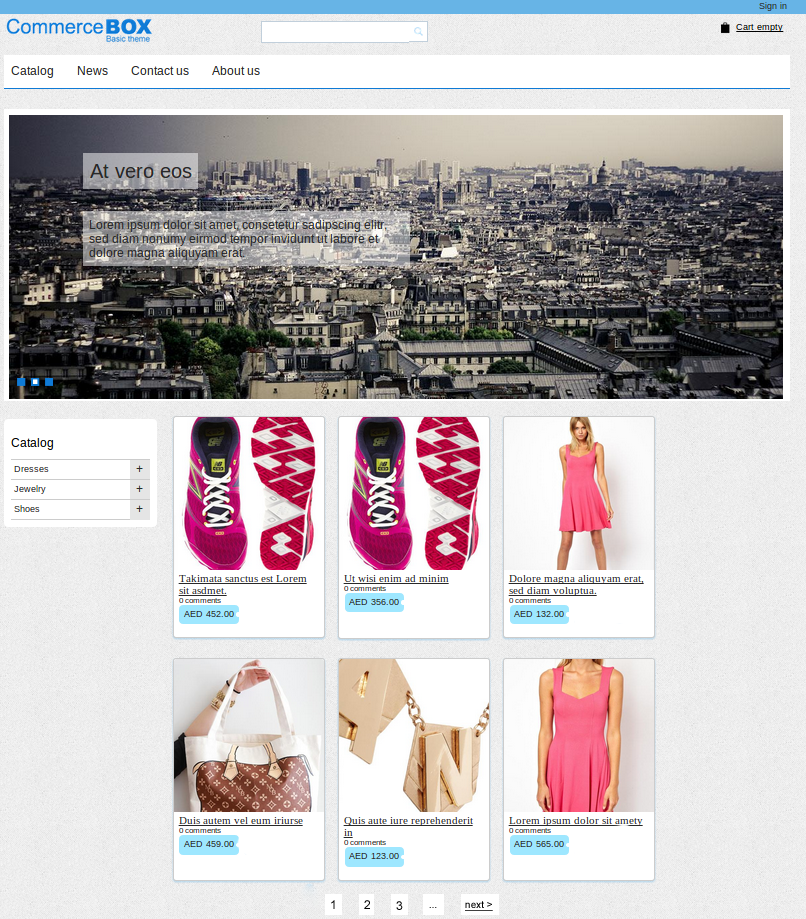
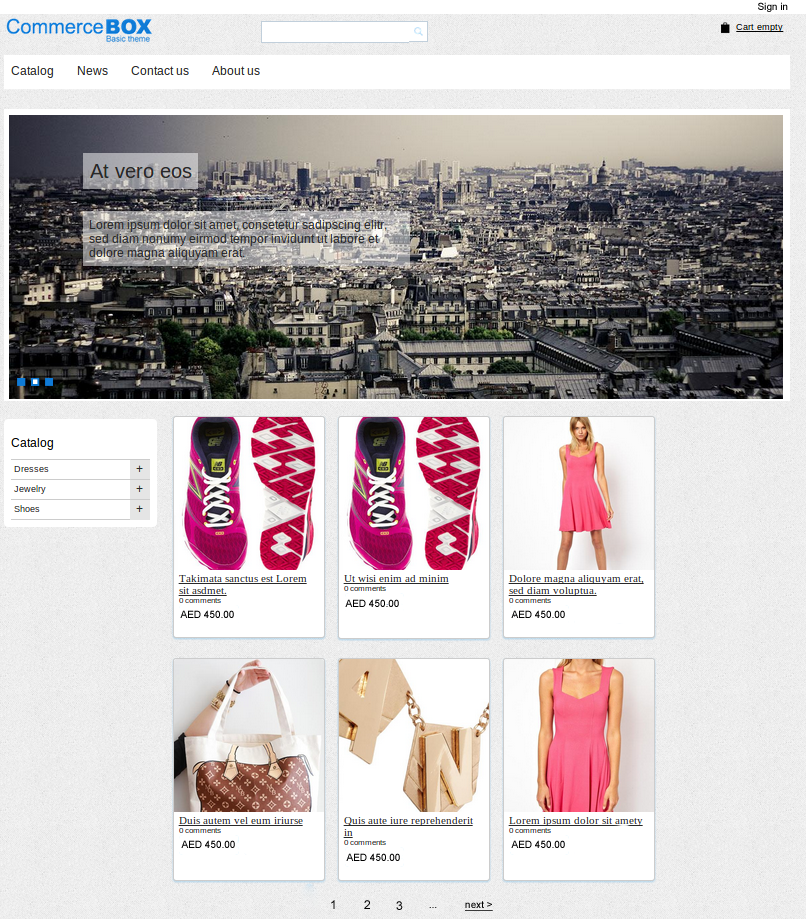
add new ui_element

diff --git a/modules/commercebox/commercebox_admin/ui_elements/css/ui_elements.css b/modules/commercebox/commercebox_admin/ui_elements/css/ui_elements.css
@@ -121,37 +121,36 @@
   position: absolute;
   padding: 0;
   margin: 0;
-
-  width: 39px;
-  height: 13px;
+  width: 64px;
+  height: 22px;
   text-align: center;
-  font-size: 8px;
-  line-height: 14px;
+  font-size: 10px;
+  line-height: 22px;
   background-color: #0E73CA;
 }
 #id-button0{
-  bottom: 220px;
-  left: 170px;
+  bottom: 308px;
+  left: 248px;
 }
 #id-button1{
-  bottom: 228px;
-  left: 286px;
+  bottom: 320px;
+  left: 413px;
 }
 #id-button2{
-  bottom: 222px;
-  left: 400px;
+  bottom: 308px;
+  left: 580px;
 }
 #id-button3{
-  bottom: 60px;
-  left: 170px;
+  bottom: 78px;
+  left: 249px;
 }
 #id-button4{
-  bottom: 52px;
-  left: 285px;
+  bottom: 67px;
+  left: 413px;
 }
 #id-button5{
-  bottom: 60px;
-  left: 400px;
+  bottom: 78px;
+  left: 578px;
 }
 #edit-form-button .form-item-bg-color-button,
 #edit-form-button  .form-item-bg-color,
